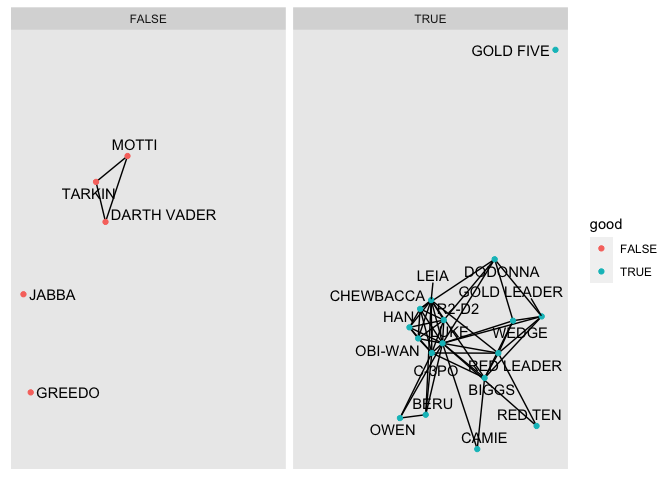
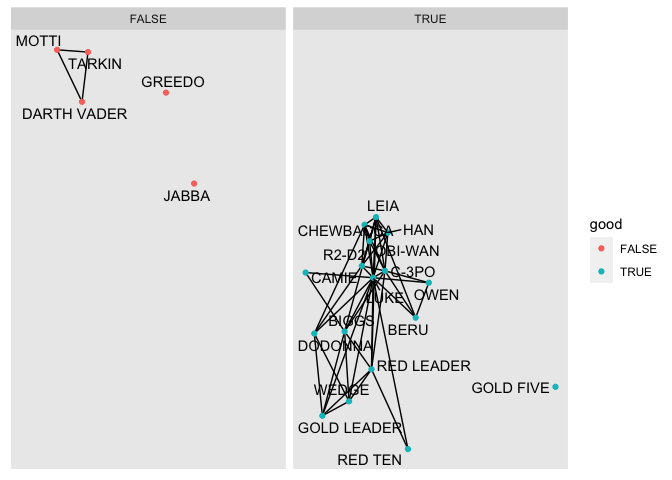
Updated color assignment.

diff --git a/Week 12 - Machine Learning Text Social Network/Machine-Learning-Text-Social-Networks-Demo.md b/Week 12 - Machine Learning Text Social Network/Machine-Learning-Text-Social-Networks-Demo.md
@@ -73,7 +73,7 @@ glimpse(d3)
 
 Now we are ready to create our first word cloud. Here we do just a
 single cloud. First, we have to load the `tidytext` library which allows
-us to extract easily extract words from the open ended text using
+us to easily extract words from the open ended text using
 `unnest_tokens`, and then we also load the `wordcloud` library for
 obvious reasons.
 
@@ -241,7 +241,7 @@ d4 %>%
    count(ideo_x, word, wt = WTFCTR, sort = T) %>%
    pivot_wider(names_from = ideo_x, values_from = n, values_fill = 0) %>% 
    column_to_rownames(var = "word") %>% 
-   comparison.cloud(colors = c("red", "blue", "grey"),
+   comparison.cloud(colors = c("blue", "grey", "red"),
                     scale = c(0.6,3),
                     max.words = 30,
                     random.order = F,
@@ -251,9 +251,6 @@ d4 %>%
 
     ## Joining, by = "word"
     ## Joining, by = "word"
-
-    ## Warning in comparison.cloud(., colors = c("red", "blue", "grey"), scale =
-    ## c(0.6, : matters could not be fit on page. It will not be plotted.
 
 ![](Machine-Learning-Text-Social-Networks-Demo_files/figure-gfm/unnamed-chunk-7-1.png)<!-- -->
 
@@ -304,7 +301,7 @@ d3 %>%
    count(ideo_x, word, wt = WTFCTR, sort = T) %>%
    pivot_wider(names_from = ideo_x, values_from = n, values_fill = 0) %>% 
    column_to_rownames(var = "word") %>% 
-   comparison.cloud(colors = c("red", "blue", "grey"),
+   comparison.cloud(colors = c("red", "grey", "blue"),
                     scale = c(0.6,3),
                     max.words = 30,
                     random.order = F,
@@ -551,7 +548,14 @@ ggraph(swnet) +
 
 But most frequently, you’ll be drawing it with edges AND nodes. Below,
 I’ve done exactly that AND I’ve specified a different kind of layout, a
-forced layout:
+force-directed layout. These are the most popular layouts. These
+algorithms, such as Fruchterman-Reingold (used here), try to position
+the nodes so that the edges have similar length and there are as few
+crossing edges as possible. The idea is to generate “clean” layouts,
+where nodes that are closer to each other share more connections in
+common that those that are located further apart. Note that this is a
+non-deterministic algorithm: choosing a different seed will generate
+different layouts.
 
 ``` r
 # draw basic network map
@@ -647,7 +651,7 @@ ggraph(swnet, "unrooted") +
    geom_edge_link() +
    geom_node_point(aes(color = good), size = 3) + 
    geom_node_text(aes(label = name), repel=TRUE) +
-   scale_color_manual(values = c("green", "black")) +
+   scale_color_manual(values = c("black", "green")) +
    theme_graph()
 ```
 
@@ -685,13 +689,13 @@ swnet %>%
     ## # A tibble: 22 × 4
     ##    name           id good  community
     ##    <chr>       <dbl> <lgl> <chr>    
-    ##  1 R2-D2           0 TRUE  1        
-    ##  2 CHEWBACCA       1 TRUE  1        
+    ##  1 R2-D2           0 TRUE  2        
+    ##  2 CHEWBACCA       1 TRUE  2        
     ##  3 C-3PO           2 TRUE  4        
-    ##  4 LUKE            3 TRUE  2        
+    ##  4 LUKE            3 TRUE  1        
     ##  5 DARTH VADER     4 FALSE 3        
-    ##  6 CAMIE           5 TRUE  2        
-    ##  7 BIGGS           6 TRUE  2        
+    ##  6 CAMIE           5 TRUE  1        
+    ##  7 BIGGS           6 TRUE  1        
     ##  8 LEIA            7 TRUE  3        
     ##  9 BERU            8 TRUE  4        
     ## 10 OWEN            9 TRUE  4        
@@ -817,15 +821,15 @@ swnet %>%
     ## # A tibble: 22 × 5
     ##    name           id good  community centrality
     ##    <chr>       <dbl> <lgl> <chr>          <dbl>
-    ##  1 LUKE            3 TRUE  2              62.4 
+    ##  1 LUKE            3 TRUE  1              62.4 
     ##  2 LEIA            7 TRUE  3              45.6 
-    ##  3 HAN            13 TRUE  1              37   
+    ##  3 HAN            13 TRUE  2              37   
     ##  4 C-3PO           2 TRUE  4              12.1 
-    ##  5 CHEWBACCA       1 TRUE  1               7.45
-    ##  6 RED LEADER     19 TRUE  2               6.75
-    ##  7 BIGGS           6 TRUE  2               6.75
-    ##  8 OBI-WAN        10 TRUE  1               3.12
-    ##  9 R2-D2           0 TRUE  1               2.5 
+    ##  5 CHEWBACCA       1 TRUE  2               7.45
+    ##  6 RED LEADER     19 TRUE  1               6.75
+    ##  7 BIGGS           6 TRUE  1               6.75
+    ##  8 OBI-WAN        10 TRUE  2               3.12
+    ##  9 R2-D2           0 TRUE  2               2.5 
     ## 10 DARTH VADER     4 FALSE 3               2.5 
     ## # … with 12 more rows
 
@@ -850,7 +854,7 @@ ggraph(swnet, "linear") +
    geom_edge_arc(aes(color = exchange)) +
    geom_node_text(aes(label = name), repel=TRUE) +
    geom_node_point(aes(color = good), size = 3) + 
-   scale_color_manual(values = c("green", "black")) +
+   scale_color_manual(values = c("black", "green")) +
    theme_graph()
 ```
 
@@ -868,8 +872,45 @@ ggraph(swnet, "linear", circular = TRUE) +
    geom_edge_arc(aes(color = exchange)) +
    geom_node_text(aes(label = name), repel=TRUE) +
    geom_node_point(aes(color = good), size = 3) + 
-   scale_color_manual(values = c("green", "black")) +
+   scale_color_manual(values = c("black", "green")) +
    theme_graph()
 ```
 
 ![](Machine-Learning-Text-Social-Networks-Demo_files/figure-gfm/unnamed-chunk-38-1.png)<!-- -->
+
+### Other Network Calcs
+
+There are many other calculations you can make using the tidygraph
+package that could enhance your analysis, but this gets us deeper into
+Social Network Analysis that is beyond the scope of this course. Below,
+however, are my very brief notes about some of these calculations that
+could be helpful guides for further study:
+
+-   **Strength** is a weighted measure of degree that takes into account
+    the number of edges that go from one node to another. In this
+    network, it will be the total number of interactions of each
+    character with anybody else. `centrality_degree`
+-   **Closeness** measures how many steps are required to access every
+    other node from a given node. It’s a measure of how long information
+    takes to arrive (who hears news first?). `centrality_closeness`
+-   **Betweenness** measures brokerage or gatekeeping potential. It is
+    (approximately) the number of shortest paths between nodes that pass
+    through a particular node. `centrality_betweenness`
+-   **Eigenvector centrality** is a measure of being well-connected to
+    the well-connected. First eigenvector of the graph adjacency matrix.
+    Only works with undirected networks. `eigen_centrality`
+-   **Page rank** approximates probability that any message will arrive
+    to a particular node. This algorithm was developed by Google
+    founders, and originally applied to website links.
+    `centrality_pagerank`
+-   **Authority score** is another measure of centrality initially
+    applied to the Web. A node has high authority when it is linked by
+    many other nodes that are linking many other nodes.
+    `centrality_authority`
+-   Finally, not exactly a measure of centrality, but we can learn more
+    about who each node is connected to by using the following
+    functions: **neighbors** (for direct neighbors) and **ego** (for
+    neighbors up to n neighbors away) `local_members`
+
+*See “Social network analysis with R: node and network properties” by
+Alex Hanna, Pablo Barbera, Dan Cervone for more info on this*
